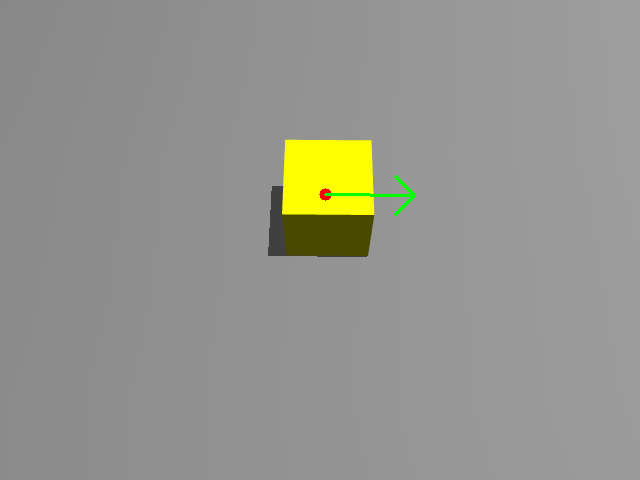
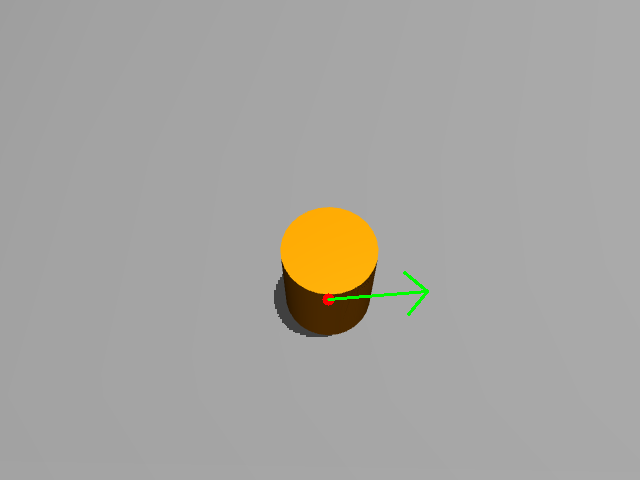
抓起了小正方体和圆柱，其他obj碰撞网格有点不稳定

Changed region(s): [[0.4062, 0.2812, 0.6875, 0.7188]]

diff --git a/custom_envs/scripts/navigation/navigate_mujoco.py b/custom_envs/scripts/navigation/navigate_mujoco.py
@@ -303,6 +303,76 @@ def main():
     _lift_best_err      = None
     _lift_diverge_count = 0
 
+    # ── CLOSE/LIFT 底盘物理锁定（MuJoCo equality weld） ──
+    # 与旧的每 policy step set_root_pose() 不同：weld 在每个 physics substep 内由
+    # MuJoCo 约束求解器持续施加约束反力，因此不会产生 20ms 一次的根节点“瞬移”。
+    import mujoco as _mj_lock
+    _base_lock_bid = _mj_lock.mj_name2id(
+        env._model, _mj_lock.mjtObj.mjOBJ_BODY, "base_link")
+    _base_lock_anchor_bid = _mj_lock.mj_name2id(
+        env._model, _mj_lock.mjtObj.mjOBJ_BODY, "base_lock_anchor")
+    _base_lock_eqid = _mj_lock.mj_name2id(
+        env._model, _mj_lock.mjtObj.mjOBJ_EQUALITY, "base_lock_weld")
+
+    if _base_lock_bid < 0 or _base_lock_anchor_bid < 0 or _base_lock_eqid < 0:
+        raise RuntimeError(
+            "scene.xml 缺少 base_lock_site/base_lock_anchor/base_lock_weld；"
+            "请使用配套的 weld 版 scene.xml")
+
+    _base_lock_mocapid = int(env._model.body_mocapid[_base_lock_anchor_bid])
+    if _base_lock_mocapid < 0:
+        raise RuntimeError("base_lock_anchor 必须是 mocap=true body")
+
+    _base_lock = dict(
+        active=False,
+        ref_pos=None,
+        ref_quat=None,
+    )
+
+    def _set_base_physical_lock(enable):
+        """CLOSE/LIFT 物理底盘锁：mocap anchor + site weld；只在状态切换时动作一次。"""
+        _enable = bool(enable)
+        if _enable == bool(_base_lock["active"]):
+            return
+
+        if _enable:
+            # 把世界锚点放到此刻 base_link 的实际世界位姿；两个 site 初始完全重合，
+            # 因此启用 weld 不会把机器人拉回 XML 初始位姿。
+            _p = env._data.xpos[_base_lock_bid].astype(np.float64).copy()
+            _q = env._data.xquat[_base_lock_bid].astype(np.float64).copy()
+            env._data.mocap_pos[_base_lock_mocapid] = _p
+            env._data.mocap_quat[_base_lock_mocapid] = _q
+            env._data.eq_active[_base_lock_eqid] = 1
+            _mj_lock.mj_forward(env._model, env._data)
+
+            _base_lock["active"] = True
+            _base_lock["ref_pos"] = _p
+            _base_lock["ref_quat"] = _q
+            print(
+                f"[BASE_LOCK] ON physical weld at pos={np.round(_p,6)} "
+                f"quat={np.round(_q,6)}",
+                flush=True)
+        else:
+            env._data.eq_active[_base_lock_eqid] = 0
+            _mj_lock.mj_forward(env._model, env._data)
+            _base_lock["active"] = False
+            print("[BASE_LOCK] OFF physical weld", flush=True)
+
+    def _print_base_lock_diag(tag="BASE_LOCK"):
+        """只读诊断：显示 weld active 时 base_link 相对锁定瞬间的残余漂移。"""
+        if not _base_lock["active"] or _base_lock["ref_pos"] is None:
+            return
+        _p = env._data.xpos[_base_lock_bid].astype(np.float64).copy()
+        _q = env._data.xquat[_base_lock_bid].astype(np.float64).copy()
+        _dp_mm = (_p - _base_lock["ref_pos"]) * 1000.0
+        _q0 = np.asarray(_base_lock["ref_quat"], dtype=np.float64)
+        _dot = float(np.clip(abs(np.dot(_q0, _q)), 0.0, 1.0))
+        _dang_deg = math.degrees(2.0 * math.acos(_dot))
+        print(
+            f"[{tag}] drift_mm={np.round(_dp_mm,4)} "
+            f"drift_rot={_dang_deg:.5f}deg",
+            flush=True)
+
     # ── arm / gripper 在 joint_pos(ALL_JOINT_NAMES) 中的索引 ──
     # 不再硬编码下标，直接复用 env 按关节名建立的映射，避免 obs_builder 顺序变化。
     _ARM_IDX = np.asarray(env._arm_all_idx, dtype=np.int32).copy()
@@ -2443,7 +2513,7 @@ def main():
                 if _pan_neg_x_goal is None:
                     _pan_neg_x_goal = _px_goal
                 _px_err = abs(pos_w[0] - _pan_neg_x_goal)
-                _pxv = float(np.clip(-2.0 * (pos_w[0] - _pan_neg_x_goal), -0.3, 0.3))
+                _pxv = float(np.clip(2.0 * (pos_w[0] - _pan_neg_x_goal), -0.3, 0.3))
                 cmd_vx = 0.0; cmd_vy = _pxv; cmd_wz = 0.0
                 _gripper_step(close=True)
                 if state_step % 50 == 0:
@@ -2490,7 +2560,7 @@ def main():
                 # 精调 X 位置到目标放置坐标的 X 方向
                 _pdx_err = float(args.destination[0]) - float(pos_w[0])
                 _pdx_abs = abs(_pdx_err)
-                _pdxv = float(np.clip(-2.0 * _pdx_err, -0.3, 0.3))
+                _pdxv = float(np.clip(2.0 * _pdx_err, -0.3, 0.3))
                 cmd_vx = 0.0; cmd_vy = _pdxv; cmd_wz = 0.0
                 _gripper_step(close=True)
                 if state_step % 50 == 0:
@@ -2572,6 +2642,14 @@ def main():
                 action_np = np.zeros(16, dtype=np.float32)
             last_action = action_np.copy()
 
+            # ── CLOSE/LIFT：用 MuJoCo 物理 weld 固定底盘 ──
+            # 在 env.step 前同步状态，保证约束参与本轮每一个 physics substep。
+            # CLOSE -> LIFT 时保持同一个 weld/anchor，不重新捕获位姿；
+            # 一旦离开 LIFT（含失败回 ARM_INIT）则在下一次 physics step 前解除。
+            _set_base_physical_lock(
+                state in {PipelineState.CLOSE, PipelineState.LIFT}
+            )
+
             # ── 执行 env.step ──
             env.step(action_np)
 
@@ -2596,17 +2674,21 @@ def main():
                     print(f"[CPOST] diagnostic error: {_de_post}", flush=True)
                 _cl_deep_post_pending = None
 
+            # 物理锁定残余漂移：CLOSE/LIFT 每 10 个状态步打印一次。
+            if _base_lock["active"] and state in {PipelineState.CLOSE, PipelineState.LIFT}:
+                if state_step % 10 == 0:
+                    _print_base_lock_diag("BASE_LOCK")
+
             time.sleep(0.005)  # 实时 1×：让 MuJoCo passive viewer 有时间处理鼠标/键盘事件
 
-            # FREEZE_STATES：强制维持根节点位姿
+            # FREEZE_STATES：旧 set_root_pose() 仅保留给抓取前阶段。
+            # CLOSE/LIFT 已改为 MuJoCo equality weld 物理固定，严禁在这两个阶段瞬移根节点。
             _FREEZE_STATES = {
                 PipelineState.ARM_INIT, PipelineState.SCAN,
                 PipelineState.GRASP_PLAN,   # AnyGrasp 推理期间锁住底盘，防止漂移影响 IK
                 PipelineState.PRE_GRASP,
                 PipelineState.ORIENT,
-                PipelineState.REACH,        # 抓取推进阶段锁住底盘，防止漂移导致夹爪偏离
-                PipelineState.CLOSE,        # 夹爪闭合阶段锁住底盘
-                PipelineState.LIFT,         # 抬臂阶段锁住底盘，防止香蕉脱手
+                PipelineState.REACH,        # 抓取推进阶段仍沿用原有冻结逻辑（本次不改）
             }
             if state in _FREEZE_STATES and _frozen_pos is not None:
                 env.set_root_pose(_frozen_pos, _frozen_quat)

diff --git a/custom_envs/scripts/navigation/grasp_stability_test.py b/custom_envs/scripts/navigation/grasp_stability_test.py
@@ -69,7 +69,8 @@ SUCCESS_Z           = 0.75          # 与管线 LIFT 判定一致
 DEFAULT_OBJ_POS = {
     "apple":  (4.9, 4.5, 0.6623),
     "banana": (4.9, 5.0, 0.6800),
-    "bowl":   (4.9, 5.5, 0.6891),
+    # bowl 已替换为圆柱 r=2.5cm h=6cm：z = 桌面 0.6613 + 半高 0.03 = 0.6913
+    "bowl":   (4.9, 5.5, 0.6913),
     "cube":   (4.9, 6.0, 0.6813),
 }
 # CLOSE 两段式冻结的加深量：必须与 navigate_mujoco.py 的 _CLOSE_FREEZE_S 保持同步
